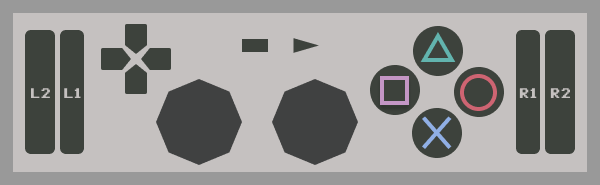
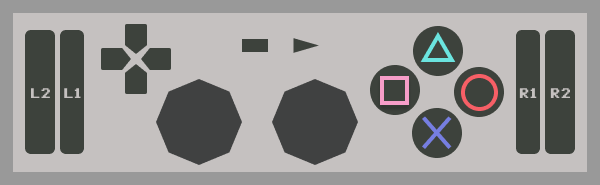
Add PSX controller assets and update overlay title

diff --git a/controller_overlay.py b/controller_overlay.py
@@ -58,7 +58,7 @@ def main() -> None:
     base_raw = pygame.image.load(str(base_path))
     w, h = base_raw.get_size()
     screen = pygame.display.set_mode((w, h))
-    pygame.display.set_caption(f"{profile['controller_name']} Overlay")
+    pygame.display.set_caption("Game Controller Overlay")
     base_img = base_raw.convert_alpha()
 
     # Use the new ControllerProfile abstraction

diff --git a/profiles.py b/profiles.py
@@ -137,6 +137,8 @@ PROFILES = {
             12: "psx/down.png",
             13: "psx/left.png",
             14: "psx/right.png",
+            7: "psx/l_thumb.png",
+            8: "psx/r_thumb.png",
         },
         "console": "PSX",
         "controller_name": "PS4 Controller",
